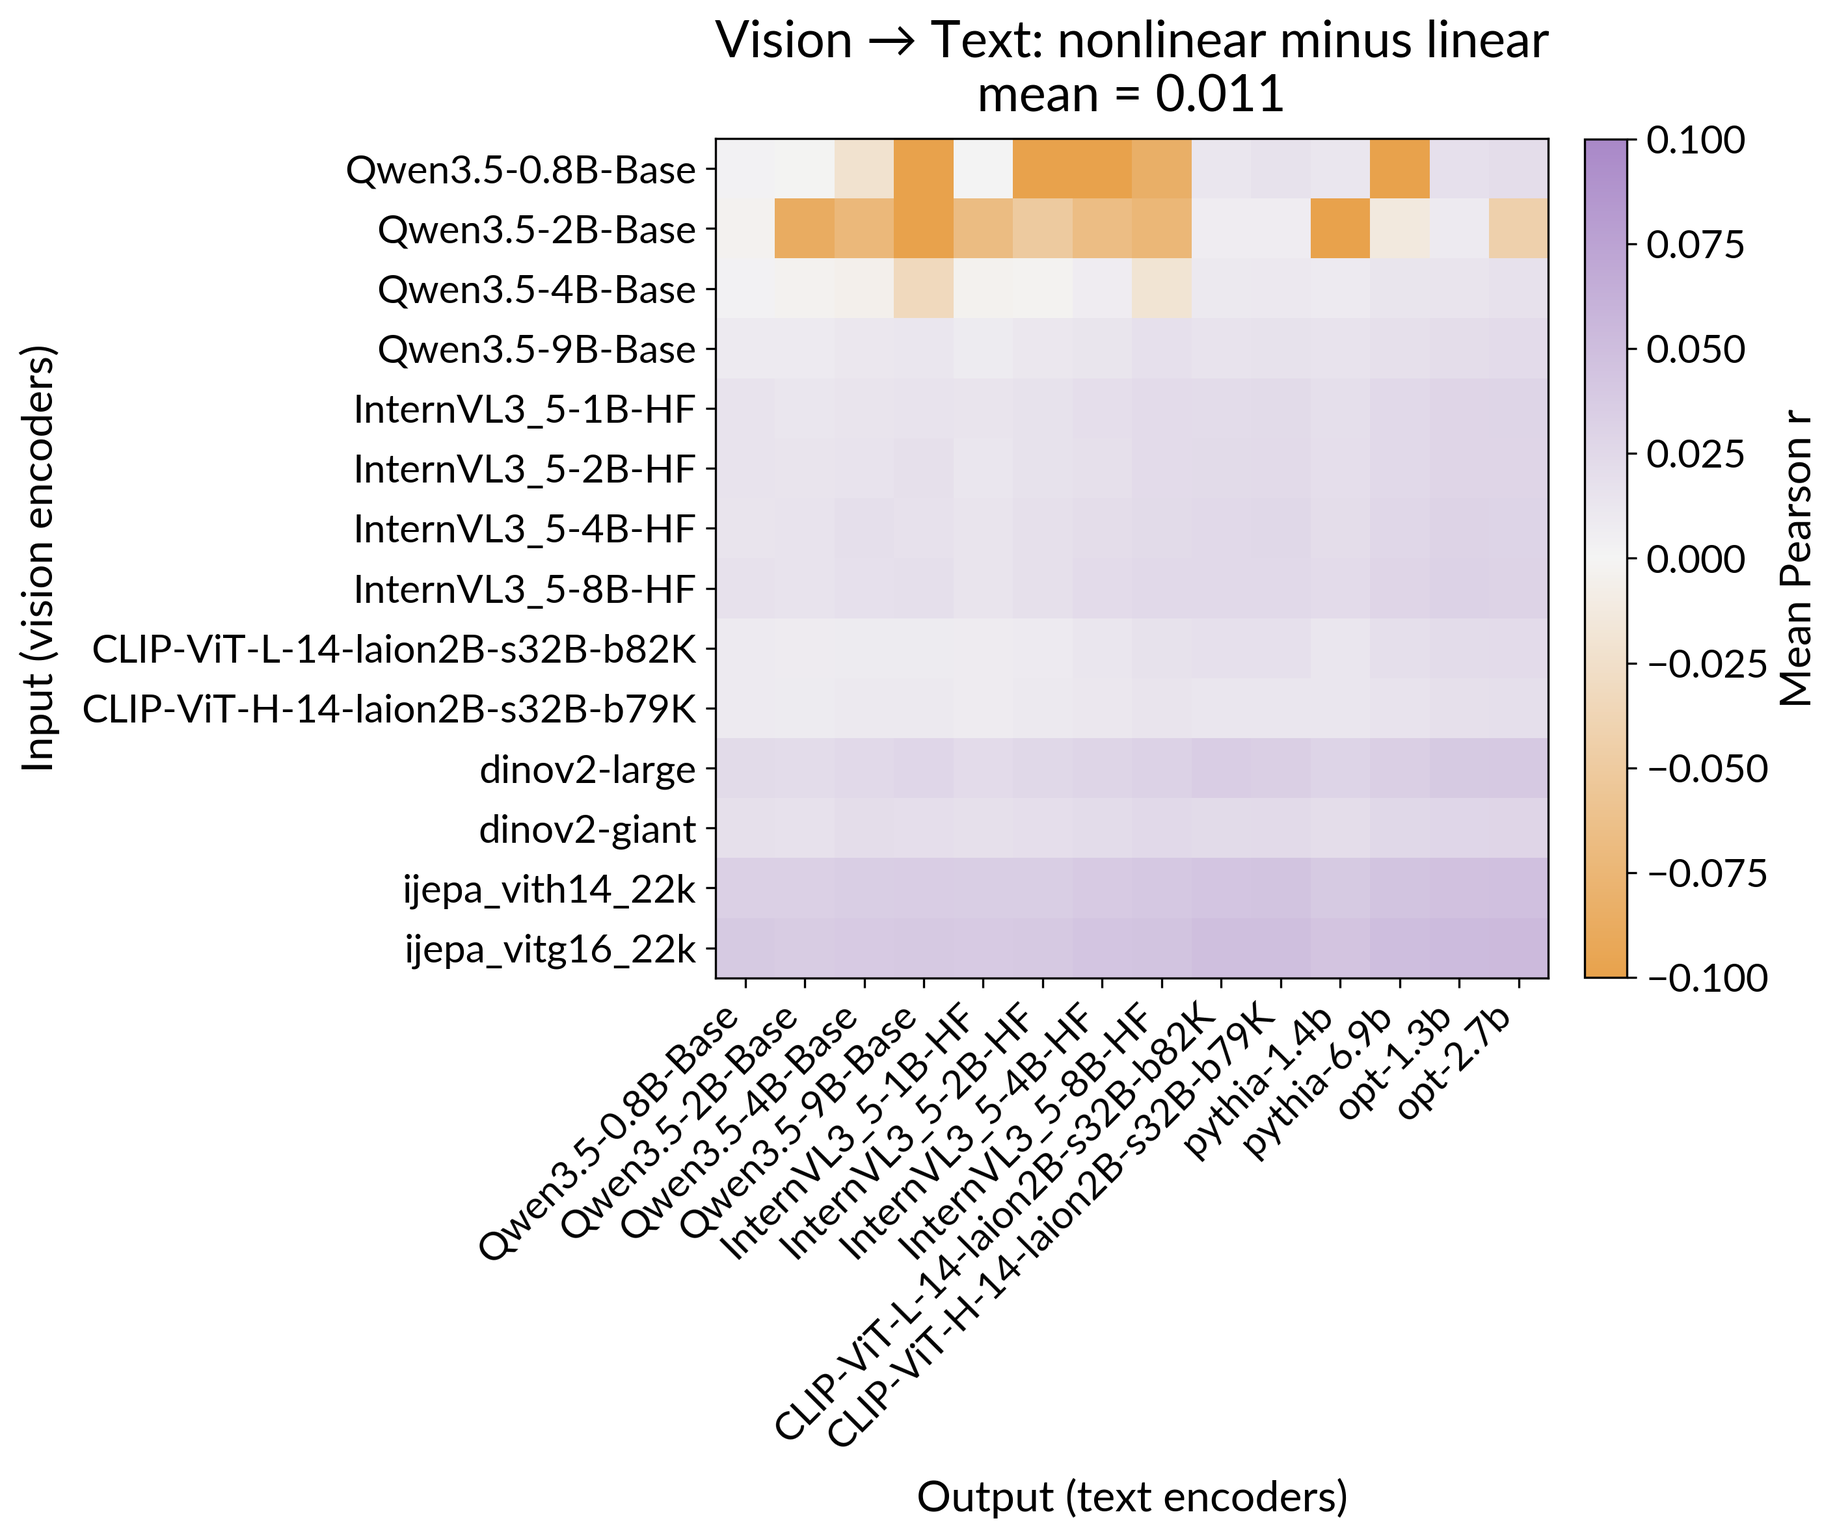
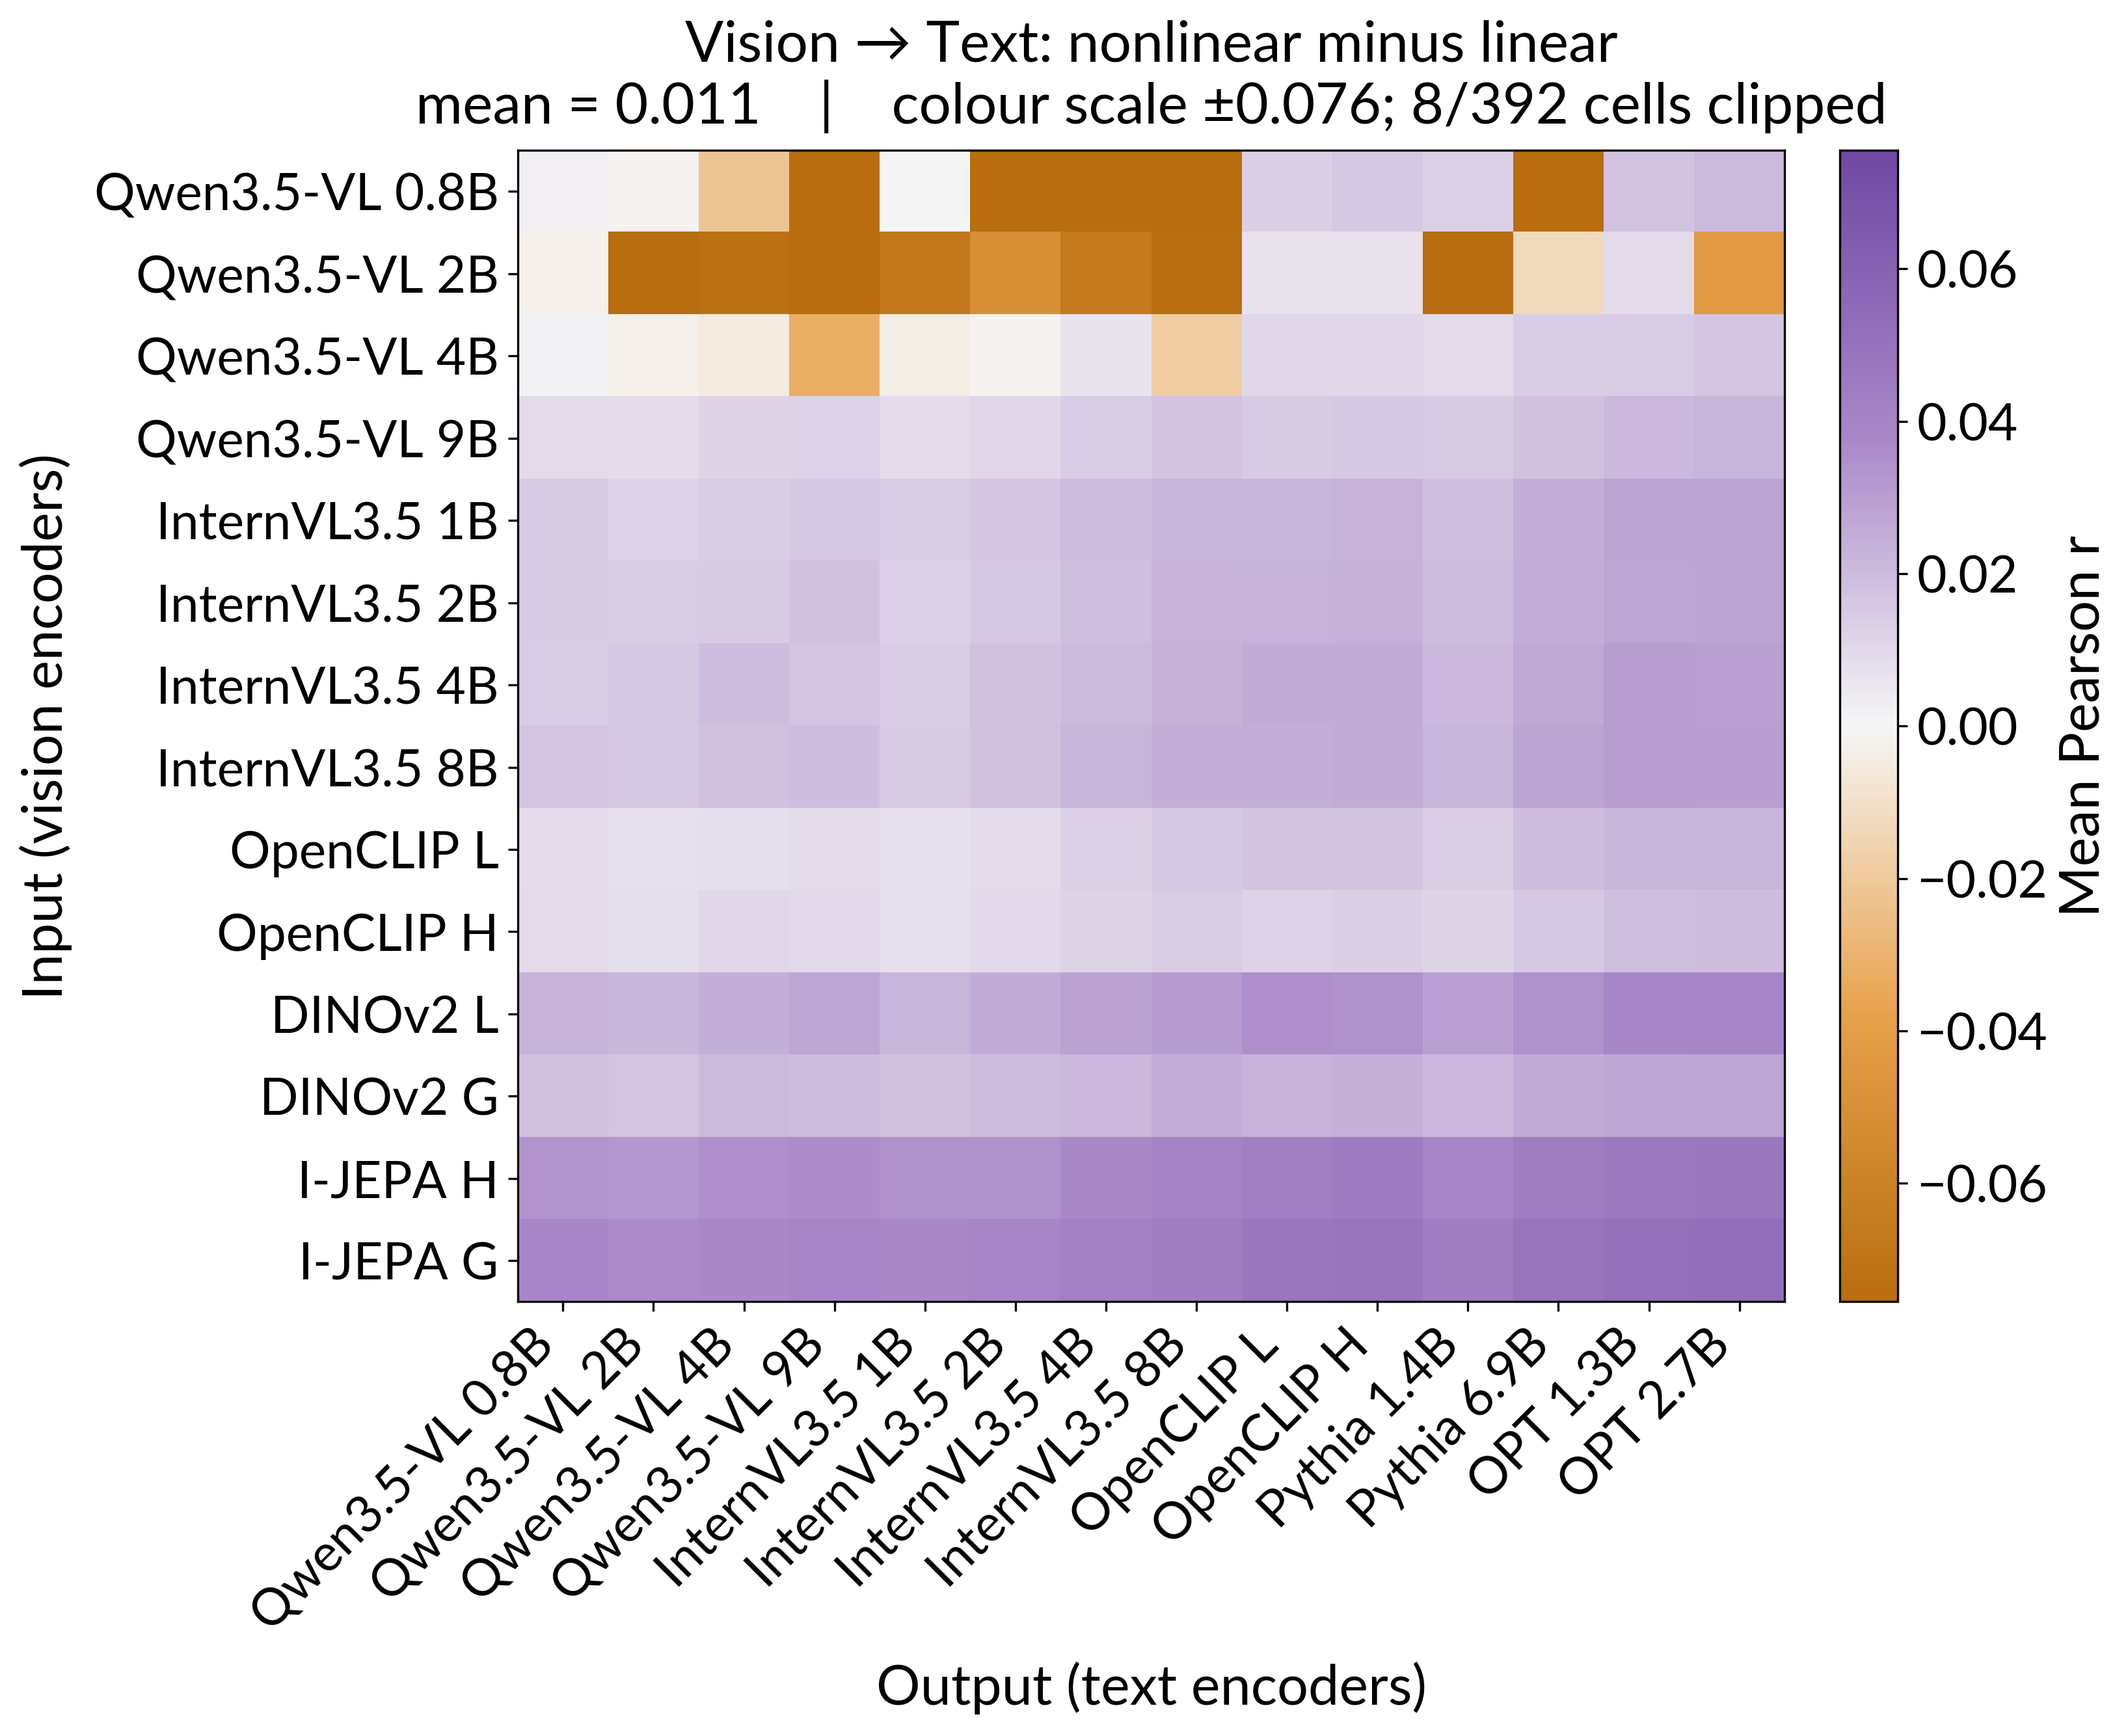
improve heatmaps

diff --git a/cross_modal_neural_encoding/visualization/visualize_predict_modalities.py b/cross_modal_neural_encoding/visualization/visualize_predict_modalities.py
@@ -31,15 +31,25 @@ from scipy.stats import wilcoxon
 from cross_modal_neural_encoding.config import FIGURES_DIR, PROJ_ROOT
 from cross_modal_neural_encoding.utils import (
     configure_plot_fonts,
-    short_model_label,
     significance_label,
+)
+from cross_modal_neural_encoding.visualization.visualize_encoding_results import (
+    MATRIX_FAMILY_DISPLAY,
+    model_family,
+    model_size,
 )
 
 configure_plot_fonts()
 
 
 def _pretty_label(label: str) -> str:
-    return short_model_label(label)
+    """``"Qwen--Qwen3.5-2B-Base"`` -> ``"Qwen3.5-VL 2B"``.
+
+    Same family and scale naming as the encoding figures, so a reader moving
+    between them sees one set of model names.
+    """
+    family = model_family(label)
+    return f"{MATRIX_FAMILY_DISPLAY.get(family, family)} {model_size(label)[1]}".strip()
 
 
 def _make_colormap(colors: list[str]) -> LinearSegmentedColormap:
@@ -73,21 +83,21 @@ def _plot_heatmap(
 
     ax.set_xticks(np.arange(len(col_labels)))
     ax.set_yticks(np.arange(len(row_labels)))
-    ax.set_xticklabels(col_labels, rotation=45, ha="right", fontsize=10 * font_scale)
-    ax.set_yticklabels(row_labels, fontsize=10 * font_scale)
+    ax.set_xticklabels(col_labels, rotation=45, ha="right", fontsize=13 * font_scale)
+    ax.set_yticklabels(row_labels, fontsize=13 * font_scale)
     mean_val = float(np.nanmean(data))
     subtitle = f"mean = {mean_val:.3f}"
     if comparison_note:
         subtitle += f"    |    {comparison_note}"
     # Wrap each title line so the title never spills past the figure width
     # (rather than letting bbox_inches="tight" widen the whole canvas).
-    title_font = 13 * font_scale
+    title_font = 14.5 * font_scale
     max_chars = max(20, int(figsize[0] * 72 / (0.55 * title_font)))
     title_lines = textwrap.fill(title, width=max_chars)
     subtitle_lines = textwrap.fill(subtitle, width=max_chars)
     ax.set_title(f"{title_lines}\n{subtitle_lines}", fontsize=title_font, pad=10)
-    ax.set_xlabel(xlabel, fontsize=11 * font_scale, labelpad=8)
-    ax.set_ylabel(ylabel, fontsize=11 * font_scale, labelpad=8)
+    ax.set_xlabel(xlabel, fontsize=14 * font_scale, labelpad=8)
+    ax.set_ylabel(ylabel, fontsize=14 * font_scale, labelpad=8)
 
     if annotate:
         for i in range(data.shape[0]):
@@ -100,13 +110,13 @@ def _plot_heatmap(
                         f"{val:.2f}",
                         ha="center",
                         va="center",
-                        fontsize=7 * font_scale,
+                        fontsize=9.5 * font_scale,
                         color="#1f2d3d",
                     )
 
     cbar = fig.colorbar(im, ax=ax, fraction=0.046, pad=0.04)
-    cbar.ax.tick_params(labelsize=10 * font_scale)
-    cbar.set_label("Mean Pearson r", fontsize=11 * font_scale)
+    cbar.ax.tick_params(labelsize=13 * font_scale)
+    cbar.set_label("Mean Pearson r", fontsize=14 * font_scale)
 
     fig.tight_layout()
     # bbox_inches="tight" so the inline comparison note in the title is never
@@ -205,8 +215,8 @@ def _plot_single_results(
 
     # Color each panel by its input modality (text = blue, image = red), matching
     # the modality scheme used across the paper's figures.
-    pastel_blue = _make_colormap(["#F2F6FB", "#BBD4F0", "#6FA8DC"])
-    pastel_red = _make_colormap(["#FCF1F1", "#F2C2C2", "#E88989"])
+    pastel_blue = _make_colormap(["#EEF4FB", "#A8C8EA", "#5B93D1", "#2A6BB5"])
+    pastel_red = _make_colormap(["#FCF0EF", "#F0B2AD", "#DD7A73", "#BE3F37"])
 
     pivot_tv, pivot_vt = _create_pivot_matrices(df, text_order, vision_order)
 
@@ -264,15 +274,21 @@ def _plot_single_results(
         logger.warning("No vision_to_text rows found in results.")
 
 
-def _symmetric_limits(data: np.ndarray, half_range: float | None) -> tuple[float, float]:
+def _symmetric_limits(
+    data: np.ndarray, half_range: float | None, robust_percentile: float = 98.0
+) -> tuple[float, float]:
     """Color bounds centered on 0 so the diverging midpoint (white) maps to 0.
 
-    ``half_range`` caps the symmetric span; ``None`` uses max(|data|) so nothing clips.
+    ``half_range`` sets the symmetric span explicitly. ``None`` derives it from
+    the *robust_percentile* of |data| rather than its maximum: these differences
+    have a long tail (median 0.016, p95 0.045, max 0.225), and scaling to the
+    max leaves the ramp almost unused for the ~95% of cells that matter. A few
+    extreme cells clip instead, which the caller reports in the subtitle.
     """
     if half_range is not None:
         lim = float(half_range)
     else:
-        lim = float(np.nanmax(np.abs(data)))
+        lim = float(np.nanpercentile(np.abs(data), robust_percentile))
     if not np.isfinite(lim) or lim <= 0.0:
         lim = 1e-6
     return -lim, lim
@@ -295,14 +311,35 @@ def _plot_difference_results(
 
     # Colorblind-safe diverging map (amber ↔ purple) for the nonlinear − linear
     # difference; avoids the red↔green pair and the categorical modality hues.
-    diverging_cmap = _make_colormap(["#E8A24C", "#F4F4F4", "#A988C8"])
+    diverging_cmap = _make_colormap(
+        ["#B86D0E", "#E8A24C", "#F6F6F6", "#A988C8", "#7048A4"]
+    )
 
     pivot1_tv, pivot1_vt = _create_pivot_matrices(df1, text_order, vision_order)
     pivot2_tv, pivot2_vt = _create_pivot_matrices(df2, text_order, vision_order)
 
-    if pivot1_tv is not None and pivot2_tv is not None:
-        diff_tv = pivot2_tv.values - pivot1_tv.values
-        vmin_tv, vmax_tv = _symmetric_limits(diff_tv, diff_vmax)
+    have_tv = pivot1_tv is not None and pivot2_tv is not None
+    have_vt = pivot1_vt is not None and pivot2_vt is not None
+    diff_tv = pivot2_tv.values - pivot1_tv.values if have_tv else None
+    diff_vt = pivot2_vt.values - pivot1_vt.values if have_vt else None
+
+    # One symmetric scale across both directions: computed per panel, the two
+    # diff heatmaps would use different colour scales and could not be compared
+    # with each other, which is the whole point of showing them side by side.
+    present = [d for d in (diff_tv, diff_vt) if d is not None]
+    if not present:
+        logger.warning("Cannot compute either difference (missing data in one or both files).")
+        return
+    all_diffs = np.concatenate([d.ravel() for d in present])
+    vmin_diff, vmax_diff = _symmetric_limits(all_diffs, diff_vmax)
+    n_clipped = int(np.sum(np.abs(all_diffs) > vmax_diff))
+    clip_note = (
+        f"colour scale ±{vmax_diff:.3f}; {n_clipped}/{all_diffs.size} cells clipped"
+        if n_clipped
+        else None
+    )
+
+    if diff_tv is not None:
         row_labels = [_pretty_label(x) for x in pivot2_tv.index.tolist()]
         col_labels = [_pretty_label(x) for x in pivot2_tv.columns.tolist()]
         output_path = _resolve_output_path(
@@ -315,12 +352,13 @@ def _plot_difference_results(
             row_labels,
             col_labels,
             title=f"Text → Vision: {label2} minus {label1}",
+            comparison_note=clip_note,
             xlabel="Output (vision encoders)",
             ylabel="Input (text encoders)",
             cmap=diverging_cmap,
             output_path=output_path,
-            vmin=vmin_tv,
-            vmax=vmax_tv,
+            vmin=vmin_diff,
+            vmax=vmax_diff,
             annotate=annotate,
             font_scale=font_scale,
             figsize=figsize,
@@ -330,9 +368,7 @@ def _plot_difference_results(
             "Cannot compute text_to_vision difference (missing data in one or both files)."
         )
 
-    if pivot1_vt is not None and pivot2_vt is not None:
-        diff_vt = pivot2_vt.values - pivot1_vt.values
-        vmin_vt, vmax_vt = _symmetric_limits(diff_vt, diff_vmax)
+    if diff_vt is not None:
         row_labels = [_pretty_label(x) for x in pivot2_vt.index.tolist()]
         col_labels = [_pretty_label(x) for x in pivot2_vt.columns.tolist()]
         output_path = _resolve_output_path(
@@ -345,12 +381,13 @@ def _plot_difference_results(
             row_labels,
             col_labels,
             title=f"Vision → Text: {label2} minus {label1}",
+            comparison_note=clip_note,
             xlabel="Output (text encoders)",
             ylabel="Input (vision encoders)",
             cmap=diverging_cmap,
             output_path=output_path,
-            vmin=vmin_vt,
-            vmax=vmax_vt,
+            vmin=vmin_diff,
+            vmax=vmax_diff,
             annotate=annotate,
             font_scale=font_scale,
             figsize=figsize,
